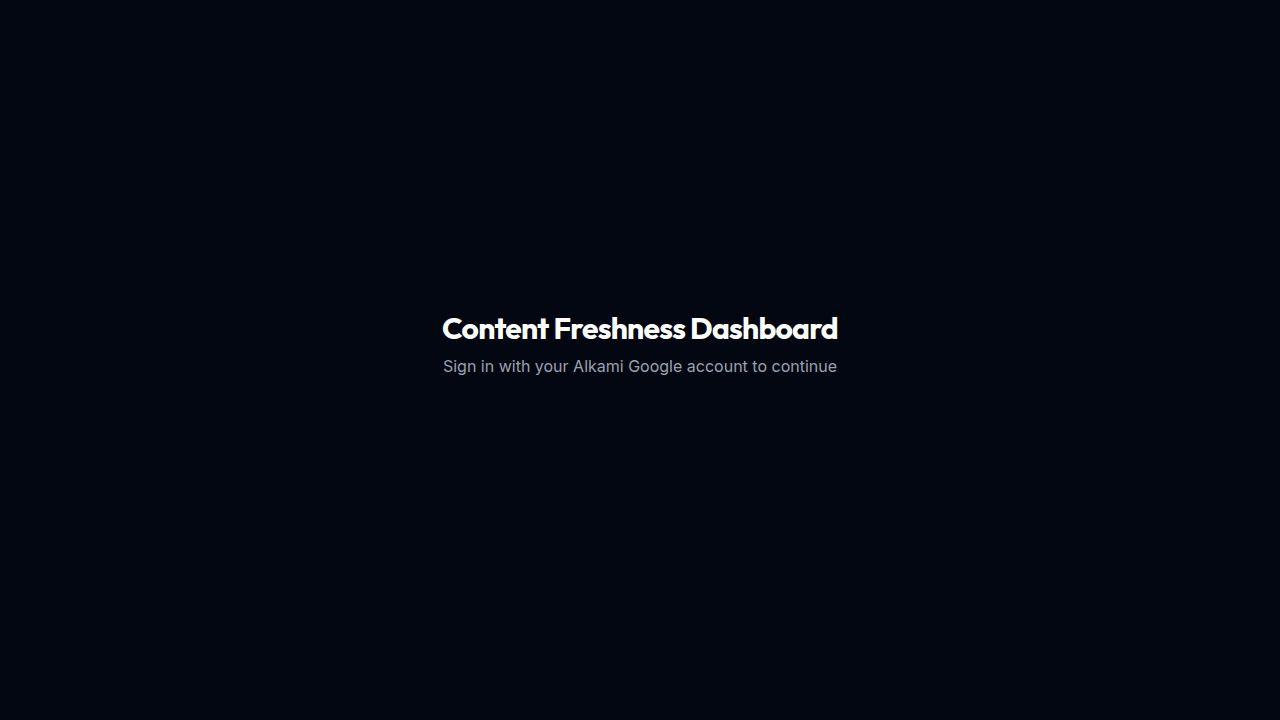
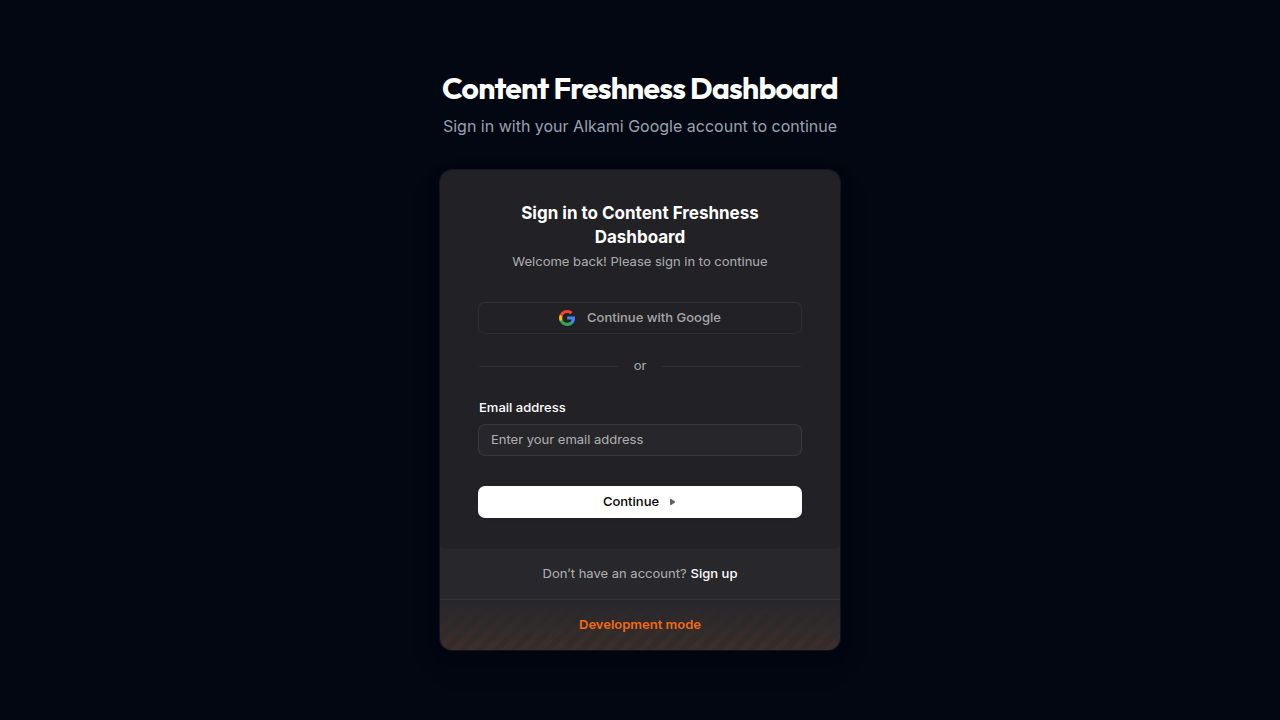
Fix issue preventing users from republishing their projects
Update Vite configuration files to conditionally require PORT and BASE_PATH environment variables, only enforcing them during development/preview builds and providing defaults for production builds.

Replit-Commit-Author: Agent
Replit-Commit-Session-Id: e8bb82df-dbdc-49ec-8787-698bc023b35a
Replit-Commit-Checkpoint-Type: full_checkpoint
Replit-Commit-Event-Id: d1c61e13-8981-46a0-9f4d-a2f1ae0c1569
Replit-Commit-Screenshot-Url: https://storage.googleapis.com/screenshot-production-us-central1/39f11cc1-46ec-4baa-b08f-a65147935e54/e8bb82df-dbdc-49ec-8787-698bc023b35a/avYCqdI
Replit-Helium-Checkpoint-Created: true

Changed region(s): [[0.3438, 0.2139, 0.6562, 0.9167], [0.3438, 0.0917, 0.6562, 0.1833]]

diff --git a/artifacts/dashboard-deck/vite.config.ts b/artifacts/dashboard-deck/vite.config.ts
@@ -4,26 +4,20 @@ import tailwindcss from "@tailwindcss/vite";
 import path from "path";
 import runtimeErrorOverlay from "@replit/vite-plugin-runtime-error-modal";
 
+// PORT/BASE_PATH are required at runtime (dev/preview) but not during production build.
+const isBuild = process.argv.includes("build");
 const rawPort = process.env.PORT;
-
-if (!rawPort) {
-  throw new Error(
-    "PORT environment variable is required but was not provided.",
-  );
+if (!isBuild && !rawPort) {
+  throw new Error("PORT environment variable is required but was not provided.");
 }
-
-const port = Number(rawPort);
-
-if (Number.isNaN(port) || port <= 0) {
+const port = rawPort ? Number(rawPort) : 5173;
+if (rawPort && (Number.isNaN(port) || port <= 0)) {
   throw new Error(`Invalid PORT value: "${rawPort}"`);
 }
 
-const basePath = process.env.BASE_PATH;
-
-if (!basePath) {
-  throw new Error(
-    "BASE_PATH environment variable is required but was not provided.",
-  );
+const basePath = process.env.BASE_PATH ?? "/";
+if (!isBuild && !process.env.BASE_PATH) {
+  throw new Error("BASE_PATH environment variable is required but was not provided.");
 }
 
 export default defineConfig({

diff --git a/artifacts/freshness-dashboard/vite.config.ts b/artifacts/freshness-dashboard/vite.config.ts
@@ -4,26 +4,20 @@ import tailwindcss from "@tailwindcss/vite";
 import path from "path";
 import runtimeErrorOverlay from "@replit/vite-plugin-runtime-error-modal";
 
+// PORT/BASE_PATH are required at runtime (dev/preview) but not during production build.
+const isBuild = process.argv.includes("build");
 const rawPort = process.env.PORT;
-
-if (!rawPort) {
-  throw new Error(
-    "PORT environment variable is required but was not provided.",
-  );
+if (!isBuild && !rawPort) {
+  throw new Error("PORT environment variable is required but was not provided.");
 }
-
-const port = Number(rawPort);
-
-if (Number.isNaN(port) || port <= 0) {
+const port = rawPort ? Number(rawPort) : 5173;
+if (rawPort && (Number.isNaN(port) || port <= 0)) {
   throw new Error(`Invalid PORT value: "${rawPort}"`);
 }
 
-const basePath = process.env.BASE_PATH;
-
-if (!basePath) {
-  throw new Error(
-    "BASE_PATH environment variable is required but was not provided.",
-  );
+const basePath = process.env.BASE_PATH ?? "/";
+if (!isBuild && !process.env.BASE_PATH) {
+  throw new Error("BASE_PATH environment variable is required but was not provided.");
 }
 
 export default defineConfig({

diff --git a/artifacts/mockup-sandbox/vite.config.ts b/artifacts/mockup-sandbox/vite.config.ts
@@ -5,26 +5,20 @@ import path from "path";
 import runtimeErrorOverlay from "@replit/vite-plugin-runtime-error-modal";
 import { mockupPreviewPlugin } from "./mockupPreviewPlugin";
 
+// PORT/BASE_PATH are required at runtime (dev/preview) but not during production build.
+const isBuild = process.argv.includes("build");
 const rawPort = process.env.PORT;
-
-if (!rawPort) {
-  throw new Error(
-    "PORT environment variable is required but was not provided.",
-  );
+if (!isBuild && !rawPort) {
+  throw new Error("PORT environment variable is required but was not provided.");
 }
-
-const port = Number(rawPort);
-
-if (Number.isNaN(port) || port <= 0) {
+const port = rawPort ? Number(rawPort) : 5173;
+if (rawPort && (Number.isNaN(port) || port <= 0)) {
   throw new Error(`Invalid PORT value: "${rawPort}"`);
 }
 
-const basePath = process.env.BASE_PATH;
-
-if (!basePath) {
-  throw new Error(
-    "BASE_PATH environment variable is required but was not provided.",
-  );
+const basePath = process.env.BASE_PATH ?? "/";
+if (!isBuild && !process.env.BASE_PATH) {
+  throw new Error("BASE_PATH environment variable is required but was not provided.");
 }
 
 export default defineConfig({